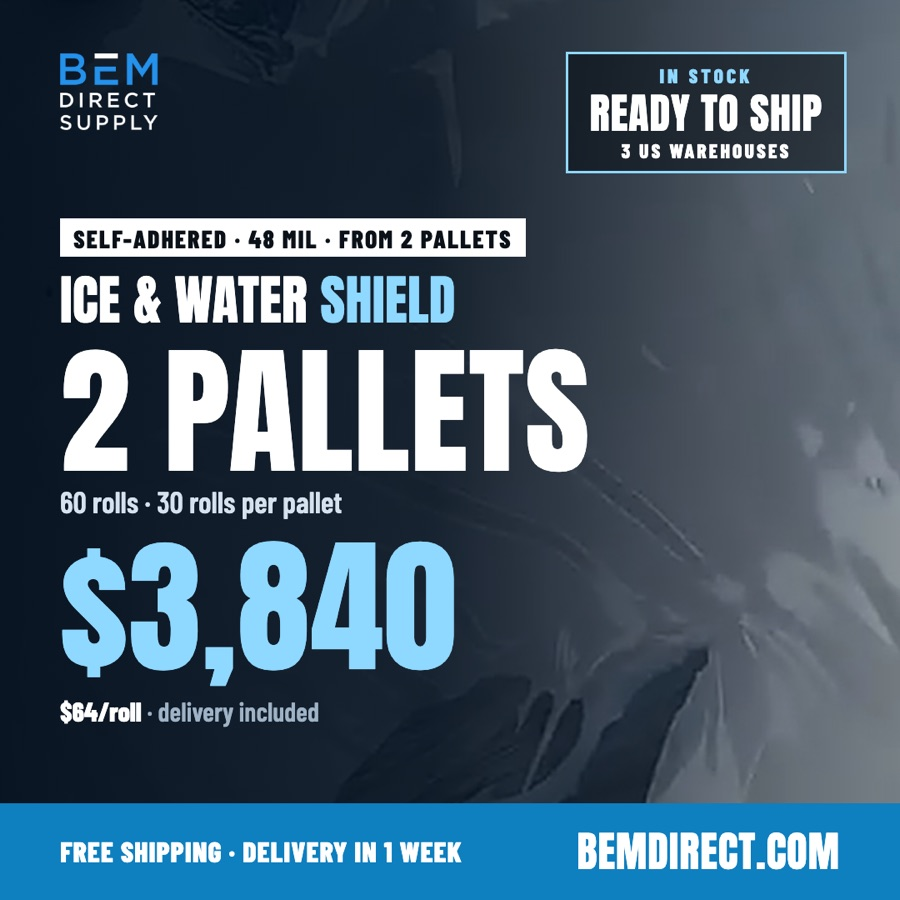
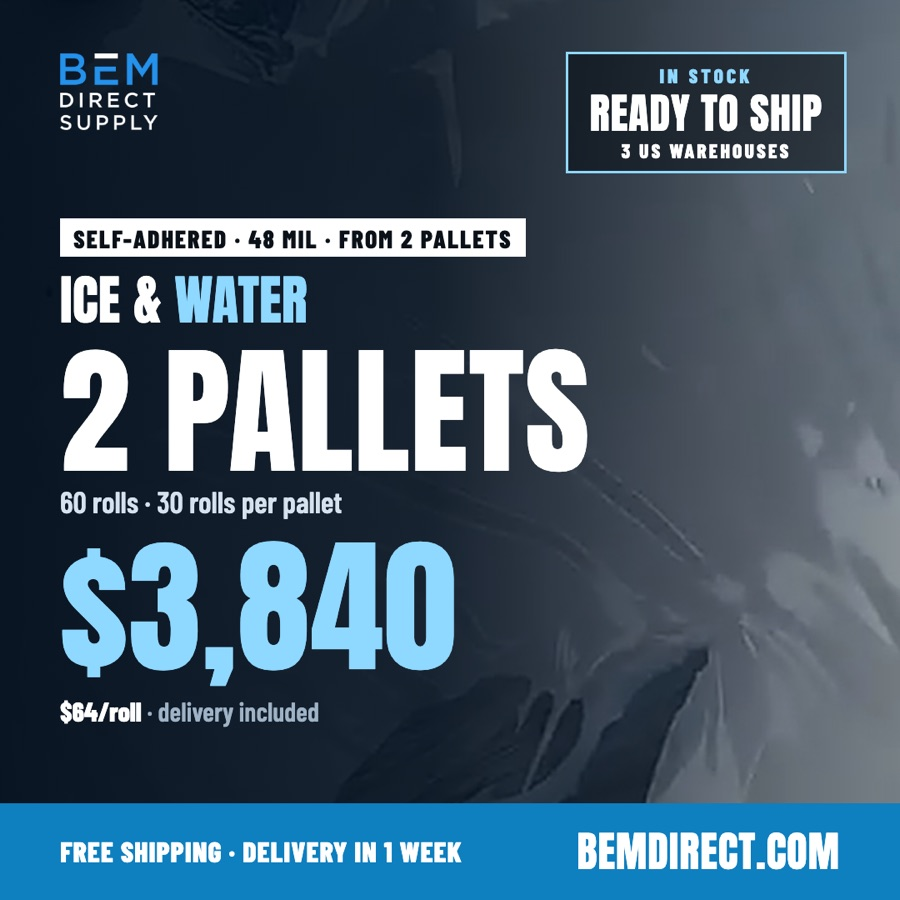
Ice & Water without 'Shield'

Changed region(s): [[0.1867, 0.28, 0.5289, 0.3733]]

diff --git a/stock/index.html b/stock/index.html
@@ -39,7 +39,7 @@ h1{font-size:30px;margin:14px 0 18px;line-height:1.15}
 <body><div class="wrap" id="app"></div>
 <script>
 // Regular-day order page (no deadline). One page per catalog: stock (StarWrap, unbranded) or custom logo (Mercy).
-const D = {"tag":"IN STOCK","title":"Order roofing underlayment","subtitle":"Free shipping from 4 US warehouses. Pick your bundle.","bundles":{"syn-1":{"name":"Synthetic Underlayment 100 GSM — 1 pallet (56 rolls)","rolls":56,"perRoll":50,"goods":2800,"delivery":"delivery in about 1 week","img":"img/syn-1.jpg","links":{"0":{"ach":"https://buy.stripe.com/4gM6oHaB8eu72b3dcbfUQ2j","card":"https://buy.stripe.com/28E8wPdNk85J3f7fkjfUQ2k"},"6":{"ach":"https://buy.stripe.com/00weVdfVs5XB4jbc87fUQ2l","card":"https://buy.stripe.com/28E00j24C1HlcPHegffUQ2m"},"7":{"ach":"https://buy.stripe.com/28E5kDbFcbhVbLD7RRfUQ2p","card":"https://buy.stripe.com/00wfZhaB85XBcPH8VVfUQ2q"},"8":{"ach":"https://buy.stripe.com/14AcN59x43PtdTL3BBfUQ2t","card":"https://buy.stripe.com/bJefZh6kS2Lp6rj0ppfUQ2u"},"6.5":{"ach":"https://buy.stripe.com/28EaEX4cK0Dh6rj3BBfUQ2n","card":"https://buy.stripe.com/5kQ7sL7oW1HlcPHegffUQ2o"},"7.5":{"ach":"https://buy.stripe.com/cNi8wPeRo1HleXP9ZZfUQ2r","card":"https://buy.stripe.com/6oU14ndNk0DhcPH8VVfUQ2s"}}},"syn-2":{"name":"Synthetic Underlayment 100 GSM — 2 pallets (112 rolls)","rolls":112,"perRoll":48,"goods":5376,"delivery":"delivery in about 1 week","img":"img/syn-2.jpg","links":{"0":{"ach":"https://buy.stripe.com/cNi3cv10y1Hl2b38VVfUQ2v","card":"https://buy.stripe.com/28EfZhaB80DhcPHb43fUQ2w"},"6":{"ach":"https://buy.stripe.com/3cI5kD38G71F16Z2xxfUQ2x","card":"https://buy.stripe.com/00wdR9fVs85J02V8VVfUQ2y"},"7":{"ach":"https://buy.stripe.com/8x2dR9cJg71F9DvfkjfUQ2B","card":"https://buy.stripe.com/aFadR99x485J4jbgonfUQ2C"},"8":{"ach":"https://buy.stripe.com/bJe3cv9x43Pt3f7b43fUQ2F","card":"https://buy.stripe.com/14A3cv24C71Fg1T4FFfUQ2G"},"6.5":{"ach":"https://buy.stripe.com/4gM28reRo5XBaHzc87fUQ2z","card":"https://buy.stripe.com/dRm7sL24Ceu78zr6NNfUQ2A"},"7.5":{"ach":"https://buy.stripe.com/dRm14n5gO85J6rj7RRfUQ2D","card":"https://buy.stripe.com/3cIaEXaB80Dh4jbfkjfUQ2E"}}},"syn-4":{"name":"Synthetic Underlayment 100 GSM — 4 pallets (224 rolls)","rolls":224,"perRoll":48,"goods":10752,"delivery":"delivery in about 1 week","img":"img/syn-4.jpg","links":{"0":{"ach":"https://buy.stripe.com/8x2bJ1dNkclZbLD3BBfUQ2H","card":"https://buy.stripe.com/dRm5kD8t04TxaHz7RRfUQ2I"},"6":{"ach":"https://buy.stripe.com/5kQ4gzaB81HlcPH3BBfUQ2J","card":"https://buy.stripe.com/fZu5kD24C2Lp6rj0ppfUQ2K"},"7":{"ach":"https://buy.stripe.com/bJe5kD38Gfyb6rj9ZZfUQ2N","card":"https://buy.stripe.com/28EcN5dNkgCfaHzc87fUQ2O"},"8":{"ach":"https://buy.stripe.com/3cIaEXcJgbhVaHz3BBfUQ2R","card":"https://buy.stripe.com/28EfZheRo4Tx6rjc87fUQ2S"},"6.5":{"ach":"https://buy.stripe.com/3cI9AT7oW3Pt8zrc87fUQ2L","card":"https://buy.stripe.com/3cIcN5eRoclZcPHgonfUQ2M"},"7.5":{"ach":"https://buy.stripe.com/eVq00jeRoeu7cPH3BBfUQ2P","card":"https://buy.stripe.com/4gM4gzaB8fybcPH1ttfUQ2Q"}}},"syn-6":{"name":"Synthetic Underlayment 100 GSM — 6 pallets (336 rolls)","rolls":336,"perRoll":48,"goods":16128,"delivery":"delivery in about 1 week","img":"img/syn-6.jpg","links":{"0":{"ach":"https://buy.stripe.com/14A9AT5gOeu7eXP9ZZfUQ2T","card":"https://buy.stripe.com/00w3cvbFc5XB6rj8VVfUQ2U"},"6":{"ach":"https://buy.stripe.com/5kQ6oHdNk5XBaHz7RRfUQ2V","card":"https://buy.stripe.com/fZu8wPeRo4Tx3f76NNfUQ2W"},"7":{"ach":"https://buy.stripe.com/4gMfZh6kS1HlbLD9ZZfUQ2Z","card":"https://buy.stripe.com/6oU28r8t00Dh8zrc87fUQ30"},"8":{"ach":"https://buy.stripe.com/4gM9ATbFcgCfeXP3BBfUQ33","card":"https://buy.stripe.com/cNi9AT8t0clZ5nf0ppfUQ34"},"6.5":{"ach":"https://buy.stripe.com/00wfZh4cKeu7aHz3BBfUQ2X","card":"https://buy.stripe.com/28E14ncJg5XB2b35JJfUQ2Y"},"7.5":{"ach":"https://buy.stripe.com/dRm7sL38Gdq316ZdcbfUQ31","card":"https://buy.stripe.com/cNi9ATbFc5XBaHzgonfUQ32"}}},"iw-2":{"name":"Ice & Water Shield 48 mil — 2 pallets (60 rolls)","rolls":60,"perRoll":64,"goods":3840,"delivery":"delivery in about 1 week","img":"img/iw-2.jpg","links":{"0":{"ach":"https://buy.stripe.com/9B6eVd7oW3Pt16Z2xxfUQ35","card":"https://buy.stripe.com/8x214n6kS1Hlg1T9ZZfUQ36"},"6":{"ach":"https://buy.stripe.com/28E9ATbFcbhVdTL5JJfUQ37","card":"https://buy.stripe.com/7sYfZheRo1Hl16Z5JJfUQ38"},"7":{"ach":"https://buy.stripe.com/eVq14ndNk99N16Zc87fUQ3b","card":"https://buy.stripe.com/00wcN57oW71Fg1T8VVfUQ3c"},"8":{"ach":"https://buy.stripe.com/00w00j9x45XBcPH0ppfUQ3f","card":"https://buy.stripe.com/3cI00jbFc1HldTL6NNfUQ3g"},"6.5":{"ach":"https://buy.stripe.com/14A00j7oWbhV7vn4FFfUQ39","card":"https://buy.stripe.com/bJefZhfVs0Dh2b34FFfUQ3a"},"7.5":{"ach":"https://buy.stripe.com/cNi4gzaB80Dh9Dv6NNfUQ3d","card":"https://buy.stripe.com/eVq8wP24CbhV7vn2xxfUQ3e"}}},"iw-4":{"name":"Ice & Water Shield 48 mil — 4 pallets (120 rolls)","rolls":120,"perRoll":64,"goods":7680,"delivery":"delivery in about 1 week","img":"img/iw-4.jpg","links":{"0":{"ach":"https://buy.stripe.com/aFafZh4cK1Hl2b35JJfUQ3h","card":"https://buy.stripe.com/7sYeVddNk99NcPH8VVfUQ3i"},"6":{"ach":"https://buy.stripe.com/5kQ7sLaB82Lpg1T6NNfUQ3j","card":"https://buy.stripe.com/fZueVdaB83Pt7vnb43fUQ3k"},"7":{"ach":"https://buy.stripe.com/8x200jgZw3PtaHz7RRfUQ3n","card":"https://buy.stripe.com/5kQcN5eRo85J8zr9ZZfUQ3o"},"8":{"ach":"https://buy.stripe.com/9B64gz9x44Txg1T1ttfUQ3r","card":"https://buy.stripe.com/cNi7sL24C1HlaHz0ppfUQ3s"},"6.5":{"ach":"https://buy.stripe.com/9B600j5gO85J02Vb43fUQ3l","card":"https://buy.stripe.com/3cIcN55gOgCfeXP9ZZfUQ3m"},"7.5":{"ach":"https://buy.stripe.com/dRm14nbFc4Tx8zrc87fUQ3p","card":"https://buy.stripe.com/fZuaEX8t099NdTLb43fUQ3q"}}},"iw-6":{"name":"Ice & Water Shield 48 mil — 6 pallets (180 rolls)","rolls":180,"perRoll":60,"goods":10800,"delivery":"delivery in about 1 week","img":"img/iw-6.jpg","links":{"0":{"ach":"https://buy.stripe.com/14AcN5dNk4Tx6rj8VVfUQ3t","card":"https://buy.stripe.com/fZu9AT24C2Lp8zr6NNfUQ3u"},"6":{"ach":"https://buy.stripe.com/9B628rfVs1Hl16Z8VVfUQ3v","card":"https://buy.stripe.com/fZu28r10ygCf3f74FFfUQ3w"},"7":{"ach":"https://buy.stripe.com/14AfZhgZwfybaHzgonfUQ3z","card":"https://buy.stripe.com/3cI4gzaB82Lp16Zb43fUQ3A"},"8":{"ach":"https://buy.stripe.com/7sY28r10y1HlbLD5JJfUQ3D","card":"https://buy.stripe.com/fZueVd7oWeu7cPHc87fUQ3E"},"6.5":{"ach":"https://buy.stripe.com/dRm9ATeRo5XB9Dv3BBfUQ3x","card":"https://buy.stripe.com/14A5kDfVs2LpeXPdcbfUQ3y"},"7.5":{"ach":"https://buy.stripe.com/9B600j6kS2Lpg1Tb43fUQ3B","card":"https://buy.stripe.com/8x2fZhdNk4Tx8zrb43fUQ3C"}}}},"fl":{"prefix":{"320":7,"321":7,"322":7.5,"323":7.5,"324":7.5,"325":7,"326":7.5,"327":7,"328":6.5,"329":7,"330":7,"331":7,"333":7,"334":7,"335":7.5,"336":7.5,"337":7,"338":7,"339":6.5,"341":6,"342":7,"344":7.5,"346":7,"347":7,"349":7},"zips":{"32003":7.5,"32008":7,"32009":7,"32011":7,"32013":7,"32024":7.5,"32025":7.5,"32026":7,"32033":6.5,"32034":7,"32038":7.5,"32040":7,"32043":7.5,"32044":7,"32046":7,"32052":8,"32053":8,"32054":7,"32055":7.5,"32058":7,"32059":7.5,"32060":7,"32061":7.5,"32062":7,"32063":7,"32064":7,"32065":7.5,"32066":7,"32068":7.5,"32071":7,"32072":7,"32073":7.5,"32079":7.5,"32080":6.5,"32081":6.5,"32082":6.5,"32083":7,"32084":6.5,"32086":6.5,"32087":7,"32091":7,"32092":6.5,"32094":7,"32095":6.5,"32096":7.5,"32097":7,"32102":7,"32110":7,"32112":7,"32113":7.5,"32114":6.5,"32117":6.5,"32118":6.5,"32119":6.5,"32124":6.5,"32127":6.5,"32128":6.5,"32129":6.5,"32130":6.5,"32131":7,"32132":6.5,"32133":7.5,"32134":7.5,"32136":7,"32137":7,"32139":7,"32140":7,"32141":6.5,"32145":6.5,"32147":7,"32148":7,"32157":7,"32159":7,"32162":7,"32163":7,"32164":7,"32168":6.5,"32169":6.5,"32174":6.5,"32176":6.5,"32177":7,"32179":7.5,"32180":6.5,"32181":7,"32182":7.5,"32187":7,"32189":7,"32190":6.5,"32192":7.5,"32193":7,"32195":7.5,"32202":7.5,"32203":7.5,"32204":7.5,"32205":7.5,"32206":7.5,"32207":7.5,"32208":7.5,"32209":7.5,"32210":7.5,"32211":7.5,"32212":7.5,"32214":7.5,"32216":7.5,"32217":7.5,"32218":7.5,"32219":7.5,"32220":7.5,"32221":7.5,"32222":7.5,"32223":7.5,"32224":7.5,"32225":7.5,"32226":7.5,"32227":7.5,"32228":7.5,"32233":7.5,"32234":7.5,"32244":7.5,"32246":7.5,"32250":7.5,"32254":7.5,"32256":7.5,"32257":7.5,"32258":7.5,"32259":6.5,"32266":7.5,"32277":7.5,"32301":7.5,"32303":7.5,"32304":7.5,"32305":7.5,"32306":7.5,"32307":7.5,"32308":7.5,"32309":7.5,"32310":7.5,"32311":7.5,"32312":7.5,"32313":7.5,"32317":7.5,"32320":7.5,"32321":7.5,"32322":7.5,"32323":7.5,"32324":7.5,"32327":7.5,"32328":7.5,"32330":7.5,"32331":7.5,"32332":7.5,"32333":7.5,"32334":7.5,"32336":7,"32337":7,"32340":7.5,"32343":7.5,"32344":7,"32346":7.5,"32347":7,"32348":7,"32350":7.5,"32351":7.5,"32352":7.5,"32355":7.5,"32356":7,"32358":7.5,"32359":7,"32360":7.5,"32361":7,"32399":7.5,"32401":7,"32403":7,"32404":7,"32405":7,"32407":7,"32408":7,"32409":7,"32410":7,"32413":7,"32420":7.5,"32421":7.5,"32423":7.5,"32424":7.5,"32425":7.5,"32426":7.5,"32427":7.5,"32428":7.5,"32430":7.5,"32431":7.5,"32432":7.5,"32433":7,"32435":7,"32437":7.5,"32438":7,"32439":7,"32440":7.5,"32442":7.5,"32443":7.5,"32444":7,"32445":7.5,"32446":7.5,"32448":7.5,"32449":7.5,"32455":7,"32456":7,"32459":7,"32460":7.5,"32461":7,"32462":7.5,"32463":7.5,"32464":7.5,"32465":7,"32466":7,"32501":7.5,"32502":7.5,"32503":7.5,"32504":7.5,"32505":7.5,"32506":7.5,"32507":7.5,"32508":7.5,"32509":7.5,"32511":7.5,"32512":7.5,"32514":7.5,"32526":7.5,"32530":7,"32531":7,"32533":7.5,"32534":7.5,"32535":7.5,"32536":7,"32539":7,"32541":7,"32542":7,"32544":7,"32547":7,"32548":7,"32550":7,"32561":7.5,"32563":7,"32564":7,"32565":7,"32566":7,"32567":7,"32568":7.5,"32569":7,"32570":7,"32571":7,"32577":7.5,"32578":7,"32579":7,"32580":7,"32583":7,"32601":7.5,"32603":7.5,"32605":7.5,"32606":7.5,"32607":7.5,"32608":7.5,"32609":7.5,"32610":7.5,"32612":7.5,"32615":7.5,"32616":7.5,"32617":7.5,"32618":7.5,"32619":7,"32621":7,"32622":7,"32625":7,"32626":7,"32628":7,"32631":7.5,"32634":7.5,"32639":7,"32640":7.5,"32641":7.5,"32643":7.5,"32648":7,"32653":7.5,"32656":7.5,"32658":7.5,"32664":7.5,"32666":7,"32667":7.5,"32668":7,"32669":7.5,"32680":7,"32681":7.5,"32683":7,"32686":7.5,"32692":7,"32693":7,"32694":7.5,"32696":7,"32697":7,"32701":7,"32702":7,"32703":6.5,"32707":7,"32708":7,"32709":6.5,"32712":6.5,"32713":6.5,"32714":7,"32720":6.5,"32723":6.5,"32724":6.5,"32725":6.5,"32726":7,"32730":7,"32732":7,"32735":7,"32736":7,"32738":6.5,"32744":6.5,"32746":7,"32750":7,"32751":6.5,"32754":7,"32757":7,"32759":6.5,"32763":6.5,"32764":6.5,"32765":7,"32766":7,"32767":7,"32768":6.5,"32771":7,"32773":7,"32775":7,"32776":7,"32778":7,"32779":7,"32780":7,"32784":7.5,"32789":6.5,"32792":7,"32796":7,"32798":6.5,"32801":6.5,"32803":6.5,"32804":6.5,"32805":6.5,"32806":6.5,"32807":6.5,"32808":6.5,"32809":6.5,"32810":6.5,"32811":6.5,"32812":6.5,"32814":6.5,"32816":6.5,"32817":6.5,"32818":6.5,"32819":6.5,"32820":6.5,"32821":6.5,"32822":6.5,"32824":6.5,"32825":6.5,"32826":6.5,"32827":6.5,"32828":6.5,"32829":6.5,"32830":6.5,"32831":6.5,"32832":6.5,"32833":6.5,"32835":6.5,"32836":6.5,"32837":6.5,"32839":6.5,"32899":7,"32901":7,"32903":7,"32904":7,"32905":7,"32907":7,"32908":7,"32909":7,"32920":7,"32922":7,"32925":7,"32926":7,"32927":7,"32931":7,"32934":7,"32935":7,"32937":7,"32940":7,"32948":7,"32949":7,"32950":7,"32951":7,"32952":7,"32953":7,"32955":7,"32958":7,"32959":7,"32960":7,"32962":7,"32963":7,"32966":7,"32967":7,"32968":7,"32970":7,"32976":7,"33001":7.5,"33004":7,"33009":7,"33010":7,"33012":7,"33013":7,"33014":7,"33015":7,"33016":7,"33018":7,"33019":7,"33020":7,"33021":7,"33022":7,"33023":7,"33024":7,"33025":7,"33026":7,"33027":7,"33028":7,"33029":7,"33030":7,"33031":7,"33032":7,"33033":7,"33034":7,"33035":7,"33036":7.5,"33037":7.5,"33039":7,"33040":7.5,"33042":7.5,"33043":7.5,"33050":7.5,"33051":7.5,"33054":7,"33055":7,"33056":7,"33060":7,"33062":7,"33063":7,"33064":7,"33065":7,"33066":7,"33067":7,"33068":7,"33069":7,"33070":7.5,"33071":7,"33073":7,"33076":7,"33101":7,"33109":7,"33122":7,"33125":7,"33126":7,"33127":7,"33128":7,"33129":7,"33130":7,"33131":7,"33132":7,"33133":7,"33134":7,"33135":7,"33136":7,"33137":7,"33138":7,"33139":7,"33140":7,"33141":7,"33142":7,"33143":7,"33144":7,"33145":7,"33146":7,"33147":7,"33149":7,"33150":7,"33154":7,"33155":7,"33156":7,"33157":7,"33158":7,"33160":7,"33161":7,"33162":7,"33165":7,"33166":7,"33167":7,"33168":7,"33169":7,"33170":7,"33172":7,"33173":7,"33174":7,"33175":7,"33176":7,"33177":7,"33178":7,"33179":7,"33180":7,"33181":7,"33182":7,"33183":7,"33184":7,"33185":7,"33186":7,"33187":7,"33189":7,"33190":7,"33193":7,"33194":7,"33196":7,"33301":7,"33304":7,"33305":7,"33306":7,"33308":7,"33309":7,"33311":7,"33312":7,"33313":7,"33314":7,"33315":7,"33316":7,"33317":7,"33319":7,"33321":7,"33322":7,"33323":7,"33324":7,"33325":7,"33326":7,"33327":7,"33328":7,"33330":7,"33331":7,"33332":7,"33334":7,"33351":7,"33388":7,"33401":7,"33403":7,"33404":7,"33405":7,"33406":7,"33407":7,"33408":7,"33409":7,"33410":7,"33411":7,"33412":7,"33413":7,"33414":7,"33415":7,"33417":7,"33418":7,"33426":7,"33428":7,"33430":7,"33431":7,"33432":7,"33433":7,"33434":7,"33435":7,"33436":7,"33437":7,"33438":7,"33440":7.5,"33441":7,"33442":7,"33444":7,"33445":7,"33446":7,"33449":7,"33455":7,"33458":7,"33460":7,"33461":7,"33462":7,"33463":7,"33467":7,"33469":7,"33470":7,"33471":7,"33472":7,"33473":7,"33476":7,"33477":7,"33478":7,"33480":7,"33483":7,"33484":7,"33486":7,"33487":7,"33493":7,"33496":7,"33498":7,"33503":7.5,"33510":7.5,"33511":7.5,"33513":7,"33514":7,"33521":7,"33523":7,"33525":7,"33527":7.5,"33530":7.5,"33534":7.5,"33538":7,"33540":7,"33541":7,"33542":7,"33543":7,"33544":7,"33545":7,"33547":7.5,"33548":7.5,"33549":7.5,"33550":7.5,"33556":7.5,"33558":7.5,"33559":7.5,"33563":7.5,"33565":7.5,"33566":7.5,"33567":7.5,"33569":7.5,"33570":7.5,"33572":7.5,"33573":7.5,"33574":7,"33576":7,"33578":7.5,"33579":7.5,"33584":7.5,"33585":7,"33592":7.5,"33594":7.5,"33596":7.5,"33597":7,"33598":7.5,"33602":7.5,"33603":7.5,"33604":7.5,"33605":7.5,"33606":7.5,"33607":7.5,"33609":7.5,"33610":7.5,"33611":7.5,"33612":7.5,"33613":7.5,"33614":7.5,"33615":7.5,"33616":7.5,"33617":7.5,"33618":7.5,"33619":7.5,"33620":7.5,"33621":7.5,"33624":7.5,"33625":7.5,"33626":7.5,"33629":7.5,"33634":7.5,"33635":7.5,"33637":7.5,"33647":7.5,"33701":7,"33702":7,"33703":7,"33704":7,"33705":7,"33706":7,"33707":7,"33708":7,"33709":7,"33710":7,"33711":7,"33712":7,"33713":7,"33714":7,"33715":7,"33716":7,"33744":7,"33755":7,"33756":7,"33759":7,"33760":7,"33761":7,"33762":7,"33763":7,"33764":7,"33765":7,"33767":7,"33770":7,"33771":7,"33772":7,"33773":7,"33774":7,"33776":7,"33777":7,"33778":7,"33781":7,"33782":7,"33785":7,"33786":7,"33801":7,"33803":7,"33805":7,"33809":7,"33810":7,"33811":7,"33812":7,"33813":7,"33815":7,"33823":7,"33825":7.5,"33827":7,"33830":7,"33834":7,"33835":7,"33837":7,"33838":7,"33839":7,"33840":7,"33841":7,"33843":7,"33844":7,"33847":7,"33848":7.5,"33849":7,"33850":7,"33851":7,"33852":7.5,"33853":7,"33854":7,"33855":7,"33856":7,"33857":7.5,"33858":7,"33859":7,"33860":7,"33865":7,"33867":7,"33868":7,"33870":7.5,"33872":7.5,"33873":7,"33875":7.5,"33876":7.5,"33877":7,"33880":7,"33881":7,"33884":7,"33890":7,"33896":7.5,"33897":7,"33898":7,"33901":6.5,"33903":6.5,"33904":6.5,"33905":6.5,"33907":6.5,"33908":6.5,"33909":6.5,"33912":6.5,"33913":6.5,"33914":6.5,"33916":6.5,"33917":6.5,"33919":6.5,"33920":6.5,"33921":6.5,"33922":6.5,"33924":6.5,"33928":6.5,"33930":7.5,"33931":6.5,"33935":7.5,"33936":7.5,"33944":7,"33946":7,"33947":7,"33948":7,"33950":7,"33952":7,"33953":7,"33954":7,"33955":7,"33956":6.5,"33957":6.5,"33960":7.5,"33965":6.5,"33966":6.5,"33967":6.5,"33971":6.5,"33972":6.5,"33973":6.5,"33974":6.5,"33976":6.5,"33980":7,"33981":7,"33982":7,"33983":7,"33990":6.5,"33991":6.5,"33993":6.5,"34101":6,"34102":6,"34103":6,"34104":6,"34105":6,"34108":6,"34109":6,"34110":6,"34112":6,"34113":6,"34114":6,"34116":6,"34117":6,"34119":6,"34120":6,"34134":6.5,"34135":6.5,"34137":6,"34138":6,"34139":6,"34140":6,"34141":6,"34142":6,"34145":6,"34201":7,"34202":7,"34203":7,"34205":7,"34207":7,"34208":7,"34209":7,"34210":7,"34211":7,"34212":7,"34215":7,"34216":7,"34217":7,"34219":7,"34221":7,"34222":7,"34223":7,"34224":7,"34228":7,"34229":7,"34231":7,"34232":7,"34233":7,"34234":7,"34235":7,"34236":7,"34237":7,"34238":7,"34239":7,"34240":7,"34241":7,"34242":7,"34243":7,"34250":7,"34251":7,"34266":7.5,"34267":7.5,"34268":7.5,"34269":7.5,"34275":7,"34285":7,"34286":7,"34287":7,"34288":7,"34289":7,"34291":7,"34292":7,"34293":7,"34420":7.5,"34428":6,"34429":6,"34431":7.5,"34432":7.5,"34433":6,"34434":6,"34436":6,"34442":6,"34445":6,"34446":6,"34448":6,"34449":7,"34450":6,"34452":6,"34453":6,"34461":6,"34465":6,"34470":7.5,"34471":7.5,"34472":7.5,"34473":7.5,"34474":7.5,"34475":7.5,"34476":7.5,"34479":7.5,"34480":7.5,"34481":7.5,"34482":7.5,"34484":7,"34487":6,"34488":7.5,"34491":7.5,"34498":7,"34601":6.5,"34602":6.5,"34604":6.5,"34606":6.5,"34607":6.5,"34608":6.5,"34609":6.5,"34610":7,"34613":6.5,"34614":6.5,"34637":7,"34638":7,"34639":7,"34652":7,"34653":7,"34654":7,"34655":7,"34661":6.5,"34667":7,"34668":7,"34669":7,"34677":7,"34679":7,"34681":7,"34683":7,"34684":7,"34685":7,"34688":7,"34689":7,"34690":7,"34691":7,"34695":7,"34698":7,"34705":7,"34711":7,"34714":7,"34715":7,"34729":7,"34731":7,"34734":6.5,"34736":7,"34737":7,"34739":7.5,"34741":7.5,"34743":7.5,"34744":7.5,"34746":7.5,"34747":7.5,"34748":7,"34753":7,"34756":7,"34758":7.5,"34759":7,"34760":6.5,"34761":6.5,"34762":7,"34769":7.5,"34771":7.5,"34772":7.5,"34773":7.5,"34785":7,"34786":6.5,"34787":6.5,"34788":7,"34797":7,"34945":7,"34946":7,"34947":7,"34949":7,"34950":7,"34951":7,"34952":7,"34953":7,"34956":7,"34957":7,"34972":7,"34974":7,"34981":7,"34982":7,"34983":7,"34984":7,"34986":7,"34987":7,"34990":7,"34994":7,"34996":7,"34997":7}},"cardFee":3};
+const D = {"tag":"IN STOCK","title":"Order roofing underlayment","subtitle":"Free shipping from 4 US warehouses. Pick your bundle.","bundles":{"syn-1":{"name":"Synthetic Underlayment 100 GSM — 1 pallet (56 rolls)","rolls":56,"perRoll":50,"goods":2800,"delivery":"delivery in about 1 week","img":"img/syn-1.jpg","links":{"0":{"ach":"https://buy.stripe.com/4gM6oHaB8eu72b3dcbfUQ2j","card":"https://buy.stripe.com/28E8wPdNk85J3f7fkjfUQ2k"},"6":{"ach":"https://buy.stripe.com/00weVdfVs5XB4jbc87fUQ2l","card":"https://buy.stripe.com/28E00j24C1HlcPHegffUQ2m"},"7":{"ach":"https://buy.stripe.com/28E5kDbFcbhVbLD7RRfUQ2p","card":"https://buy.stripe.com/00wfZhaB85XBcPH8VVfUQ2q"},"8":{"ach":"https://buy.stripe.com/14AcN59x43PtdTL3BBfUQ2t","card":"https://buy.stripe.com/bJefZh6kS2Lp6rj0ppfUQ2u"},"6.5":{"ach":"https://buy.stripe.com/28EaEX4cK0Dh6rj3BBfUQ2n","card":"https://buy.stripe.com/5kQ7sL7oW1HlcPHegffUQ2o"},"7.5":{"ach":"https://buy.stripe.com/cNi8wPeRo1HleXP9ZZfUQ2r","card":"https://buy.stripe.com/6oU14ndNk0DhcPH8VVfUQ2s"}}},"syn-2":{"name":"Synthetic Underlayment 100 GSM — 2 pallets (112 rolls)","rolls":112,"perRoll":48,"goods":5376,"delivery":"delivery in about 1 week","img":"img/syn-2.jpg","links":{"0":{"ach":"https://buy.stripe.com/cNi3cv10y1Hl2b38VVfUQ2v","card":"https://buy.stripe.com/28EfZhaB80DhcPHb43fUQ2w"},"6":{"ach":"https://buy.stripe.com/3cI5kD38G71F16Z2xxfUQ2x","card":"https://buy.stripe.com/00wdR9fVs85J02V8VVfUQ2y"},"7":{"ach":"https://buy.stripe.com/8x2dR9cJg71F9DvfkjfUQ2B","card":"https://buy.stripe.com/aFadR99x485J4jbgonfUQ2C"},"8":{"ach":"https://buy.stripe.com/bJe3cv9x43Pt3f7b43fUQ2F","card":"https://buy.stripe.com/14A3cv24C71Fg1T4FFfUQ2G"},"6.5":{"ach":"https://buy.stripe.com/4gM28reRo5XBaHzc87fUQ2z","card":"https://buy.stripe.com/dRm7sL24Ceu78zr6NNfUQ2A"},"7.5":{"ach":"https://buy.stripe.com/dRm14n5gO85J6rj7RRfUQ2D","card":"https://buy.stripe.com/3cIaEXaB80Dh4jbfkjfUQ2E"}}},"syn-4":{"name":"Synthetic Underlayment 100 GSM — 4 pallets (224 rolls)","rolls":224,"perRoll":48,"goods":10752,"delivery":"delivery in about 1 week","img":"img/syn-4.jpg","links":{"0":{"ach":"https://buy.stripe.com/8x2bJ1dNkclZbLD3BBfUQ2H","card":"https://buy.stripe.com/dRm5kD8t04TxaHz7RRfUQ2I"},"6":{"ach":"https://buy.stripe.com/5kQ4gzaB81HlcPH3BBfUQ2J","card":"https://buy.stripe.com/fZu5kD24C2Lp6rj0ppfUQ2K"},"7":{"ach":"https://buy.stripe.com/bJe5kD38Gfyb6rj9ZZfUQ2N","card":"https://buy.stripe.com/28EcN5dNkgCfaHzc87fUQ2O"},"8":{"ach":"https://buy.stripe.com/3cIaEXcJgbhVaHz3BBfUQ2R","card":"https://buy.stripe.com/28EfZheRo4Tx6rjc87fUQ2S"},"6.5":{"ach":"https://buy.stripe.com/3cI9AT7oW3Pt8zrc87fUQ2L","card":"https://buy.stripe.com/3cIcN5eRoclZcPHgonfUQ2M"},"7.5":{"ach":"https://buy.stripe.com/eVq00jeRoeu7cPH3BBfUQ2P","card":"https://buy.stripe.com/4gM4gzaB8fybcPH1ttfUQ2Q"}}},"syn-6":{"name":"Synthetic Underlayment 100 GSM — 6 pallets (336 rolls)","rolls":336,"perRoll":48,"goods":16128,"delivery":"delivery in about 1 week","img":"img/syn-6.jpg","links":{"0":{"ach":"https://buy.stripe.com/14A9AT5gOeu7eXP9ZZfUQ2T","card":"https://buy.stripe.com/00w3cvbFc5XB6rj8VVfUQ2U"},"6":{"ach":"https://buy.stripe.com/5kQ6oHdNk5XBaHz7RRfUQ2V","card":"https://buy.stripe.com/fZu8wPeRo4Tx3f76NNfUQ2W"},"7":{"ach":"https://buy.stripe.com/4gMfZh6kS1HlbLD9ZZfUQ2Z","card":"https://buy.stripe.com/6oU28r8t00Dh8zrc87fUQ30"},"8":{"ach":"https://buy.stripe.com/4gM9ATbFcgCfeXP3BBfUQ33","card":"https://buy.stripe.com/cNi9AT8t0clZ5nf0ppfUQ34"},"6.5":{"ach":"https://buy.stripe.com/00wfZh4cKeu7aHz3BBfUQ2X","card":"https://buy.stripe.com/28E14ncJg5XB2b35JJfUQ2Y"},"7.5":{"ach":"https://buy.stripe.com/dRm7sL38Gdq316ZdcbfUQ31","card":"https://buy.stripe.com/cNi9ATbFc5XBaHzgonfUQ32"}}},"iw-2":{"name":"Ice & Water 48 mil — 2 pallets (60 rolls)","rolls":60,"perRoll":64,"goods":3840,"delivery":"delivery in about 1 week","img":"img/iw-2.jpg","links":{"0":{"ach":"https://buy.stripe.com/9B6eVd7oW3Pt16Z2xxfUQ35","card":"https://buy.stripe.com/8x214n6kS1Hlg1T9ZZfUQ36"},"6":{"ach":"https://buy.stripe.com/28E9ATbFcbhVdTL5JJfUQ37","card":"https://buy.stripe.com/7sYfZheRo1Hl16Z5JJfUQ38"},"7":{"ach":"https://buy.stripe.com/eVq14ndNk99N16Zc87fUQ3b","card":"https://buy.stripe.com/00wcN57oW71Fg1T8VVfUQ3c"},"8":{"ach":"https://buy.stripe.com/00w00j9x45XBcPH0ppfUQ3f","card":"https://buy.stripe.com/3cI00jbFc1HldTL6NNfUQ3g"},"6.5":{"ach":"https://buy.stripe.com/14A00j7oWbhV7vn4FFfUQ39","card":"https://buy.stripe.com/bJefZhfVs0Dh2b34FFfUQ3a"},"7.5":{"ach":"https://buy.stripe.com/cNi4gzaB80Dh9Dv6NNfUQ3d","card":"https://buy.stripe.com/eVq8wP24CbhV7vn2xxfUQ3e"}}},"iw-4":{"name":"Ice & Water 48 mil — 4 pallets (120 rolls)","rolls":120,"perRoll":64,"goods":7680,"delivery":"delivery in about 1 week","img":"img/iw-4.jpg","links":{"0":{"ach":"https://buy.stripe.com/aFafZh4cK1Hl2b35JJfUQ3h","card":"https://buy.stripe.com/7sYeVddNk99NcPH8VVfUQ3i"},"6":{"ach":"https://buy.stripe.com/5kQ7sLaB82Lpg1T6NNfUQ3j","card":"https://buy.stripe.com/fZueVdaB83Pt7vnb43fUQ3k"},"7":{"ach":"https://buy.stripe.com/8x200jgZw3PtaHz7RRfUQ3n","card":"https://buy.stripe.com/5kQcN5eRo85J8zr9ZZfUQ3o"},"8":{"ach":"https://buy.stripe.com/9B64gz9x44Txg1T1ttfUQ3r","card":"https://buy.stripe.com/cNi7sL24C1HlaHz0ppfUQ3s"},"6.5":{"ach":"https://buy.stripe.com/9B600j5gO85J02Vb43fUQ3l","card":"https://buy.stripe.com/3cIcN55gOgCfeXP9ZZfUQ3m"},"7.5":{"ach":"https://buy.stripe.com/dRm14nbFc4Tx8zrc87fUQ3p","card":"https://buy.stripe.com/fZuaEX8t099NdTLb43fUQ3q"}}},"iw-6":{"name":"Ice & Water 48 mil — 6 pallets (180 rolls)","rolls":180,"perRoll":60,"goods":10800,"delivery":"delivery in about 1 week","img":"img/iw-6.jpg","links":{"0":{"ach":"https://buy.stripe.com/14AcN5dNk4Tx6rj8VVfUQ3t","card":"https://buy.stripe.com/fZu9AT24C2Lp8zr6NNfUQ3u"},"6":{"ach":"https://buy.stripe.com/9B628rfVs1Hl16Z8VVfUQ3v","card":"https://buy.stripe.com/fZu28r10ygCf3f74FFfUQ3w"},"7":{"ach":"https://buy.stripe.com/14AfZhgZwfybaHzgonfUQ3z","card":"https://buy.stripe.com/3cI4gzaB82Lp16Zb43fUQ3A"},"8":{"ach":"https://buy.stripe.com/7sY28r10y1HlbLD5JJfUQ3D","card":"https://buy.stripe.com/fZueVd7oWeu7cPHc87fUQ3E"},"6.5":{"ach":"https://buy.stripe.com/dRm9ATeRo5XB9Dv3BBfUQ3x","card":"https://buy.stripe.com/14A5kDfVs2LpeXPdcbfUQ3y"},"7.5":{"ach":"https://buy.stripe.com/9B600j6kS2Lpg1Tb43fUQ3B","card":"https://buy.stripe.com/8x2fZhdNk4Tx8zrb43fUQ3C"}}}},"fl":{"prefix":{"320":7,"321":7,"322":7.5,"323":7.5,"324":7.5,"325":7,"326":7.5,"327":7,"328":6.5,"329":7,"330":7,"331":7,"333":7,"334":7,"335":7.5,"336":7.5,"337":7,"338":7,"339":6.5,"341":6,"342":7,"344":7.5,"346":7,"347":7,"349":7},"zips":{"32003":7.5,"32008":7,"32009":7,"32011":7,"32013":7,"32024":7.5,"32025":7.5,"32026":7,"32033":6.5,"32034":7,"32038":7.5,"32040":7,"32043":7.5,"32044":7,"32046":7,"32052":8,"32053":8,"32054":7,"32055":7.5,"32058":7,"32059":7.5,"32060":7,"32061":7.5,"32062":7,"32063":7,"32064":7,"32065":7.5,"32066":7,"32068":7.5,"32071":7,"32072":7,"32073":7.5,"32079":7.5,"32080":6.5,"32081":6.5,"32082":6.5,"32083":7,"32084":6.5,"32086":6.5,"32087":7,"32091":7,"32092":6.5,"32094":7,"32095":6.5,"32096":7.5,"32097":7,"32102":7,"32110":7,"32112":7,"32113":7.5,"32114":6.5,"32117":6.5,"32118":6.5,"32119":6.5,"32124":6.5,"32127":6.5,"32128":6.5,"32129":6.5,"32130":6.5,"32131":7,"32132":6.5,"32133":7.5,"32134":7.5,"32136":7,"32137":7,"32139":7,"32140":7,"32141":6.5,"32145":6.5,"32147":7,"32148":7,"32157":7,"32159":7,"32162":7,"32163":7,"32164":7,"32168":6.5,"32169":6.5,"32174":6.5,"32176":6.5,"32177":7,"32179":7.5,"32180":6.5,"32181":7,"32182":7.5,"32187":7,"32189":7,"32190":6.5,"32192":7.5,"32193":7,"32195":7.5,"32202":7.5,"32203":7.5,"32204":7.5,"32205":7.5,"32206":7.5,"32207":7.5,"32208":7.5,"32209":7.5,"32210":7.5,"32211":7.5,"32212":7.5,"32214":7.5,"32216":7.5,"32217":7.5,"32218":7.5,"32219":7.5,"32220":7.5,"32221":7.5,"32222":7.5,"32223":7.5,"32224":7.5,"32225":7.5,"32226":7.5,"32227":7.5,"32228":7.5,"32233":7.5,"32234":7.5,"32244":7.5,"32246":7.5,"32250":7.5,"32254":7.5,"32256":7.5,"32257":7.5,"32258":7.5,"32259":6.5,"32266":7.5,"32277":7.5,"32301":7.5,"32303":7.5,"32304":7.5,"32305":7.5,"32306":7.5,"32307":7.5,"32308":7.5,"32309":7.5,"32310":7.5,"32311":7.5,"32312":7.5,"32313":7.5,"32317":7.5,"32320":7.5,"32321":7.5,"32322":7.5,"32323":7.5,"32324":7.5,"32327":7.5,"32328":7.5,"32330":7.5,"32331":7.5,"32332":7.5,"32333":7.5,"32334":7.5,"32336":7,"32337":7,"32340":7.5,"32343":7.5,"32344":7,"32346":7.5,"32347":7,"32348":7,"32350":7.5,"32351":7.5,"32352":7.5,"32355":7.5,"32356":7,"32358":7.5,"32359":7,"32360":7.5,"32361":7,"32399":7.5,"32401":7,"32403":7,"32404":7,"32405":7,"32407":7,"32408":7,"32409":7,"32410":7,"32413":7,"32420":7.5,"32421":7.5,"32423":7.5,"32424":7.5,"32425":7.5,"32426":7.5,"32427":7.5,"32428":7.5,"32430":7.5,"32431":7.5,"32432":7.5,"32433":7,"32435":7,"32437":7.5,"32438":7,"32439":7,"32440":7.5,"32442":7.5,"32443":7.5,"32444":7,"32445":7.5,"32446":7.5,"32448":7.5,"32449":7.5,"32455":7,"32456":7,"32459":7,"32460":7.5,"32461":7,"32462":7.5,"32463":7.5,"32464":7.5,"32465":7,"32466":7,"32501":7.5,"32502":7.5,"32503":7.5,"32504":7.5,"32505":7.5,"32506":7.5,"32507":7.5,"32508":7.5,"32509":7.5,"32511":7.5,"32512":7.5,"32514":7.5,"32526":7.5,"32530":7,"32531":7,"32533":7.5,"32534":7.5,"32535":7.5,"32536":7,"32539":7,"32541":7,"32542":7,"32544":7,"32547":7,"32548":7,"32550":7,"32561":7.5,"32563":7,"32564":7,"32565":7,"32566":7,"32567":7,"32568":7.5,"32569":7,"32570":7,"32571":7,"32577":7.5,"32578":7,"32579":7,"32580":7,"32583":7,"32601":7.5,"32603":7.5,"32605":7.5,"32606":7.5,"32607":7.5,"32608":7.5,"32609":7.5,"32610":7.5,"32612":7.5,"32615":7.5,"32616":7.5,"32617":7.5,"32618":7.5,"32619":7,"32621":7,"32622":7,"32625":7,"32626":7,"32628":7,"32631":7.5,"32634":7.5,"32639":7,"32640":7.5,"32641":7.5,"32643":7.5,"32648":7,"32653":7.5,"32656":7.5,"32658":7.5,"32664":7.5,"32666":7,"32667":7.5,"32668":7,"32669":7.5,"32680":7,"32681":7.5,"32683":7,"32686":7.5,"32692":7,"32693":7,"32694":7.5,"32696":7,"32697":7,"32701":7,"32702":7,"32703":6.5,"32707":7,"32708":7,"32709":6.5,"32712":6.5,"32713":6.5,"32714":7,"32720":6.5,"32723":6.5,"32724":6.5,"32725":6.5,"32726":7,"32730":7,"32732":7,"32735":7,"32736":7,"32738":6.5,"32744":6.5,"32746":7,"32750":7,"32751":6.5,"32754":7,"32757":7,"32759":6.5,"32763":6.5,"32764":6.5,"32765":7,"32766":7,"32767":7,"32768":6.5,"32771":7,"32773":7,"32775":7,"32776":7,"32778":7,"32779":7,"32780":7,"32784":7.5,"32789":6.5,"32792":7,"32796":7,"32798":6.5,"32801":6.5,"32803":6.5,"32804":6.5,"32805":6.5,"32806":6.5,"32807":6.5,"32808":6.5,"32809":6.5,"32810":6.5,"32811":6.5,"32812":6.5,"32814":6.5,"32816":6.5,"32817":6.5,"32818":6.5,"32819":6.5,"32820":6.5,"32821":6.5,"32822":6.5,"32824":6.5,"32825":6.5,"32826":6.5,"32827":6.5,"32828":6.5,"32829":6.5,"32830":6.5,"32831":6.5,"32832":6.5,"32833":6.5,"32835":6.5,"32836":6.5,"32837":6.5,"32839":6.5,"32899":7,"32901":7,"32903":7,"32904":7,"32905":7,"32907":7,"32908":7,"32909":7,"32920":7,"32922":7,"32925":7,"32926":7,"32927":7,"32931":7,"32934":7,"32935":7,"32937":7,"32940":7,"32948":7,"32949":7,"32950":7,"32951":7,"32952":7,"32953":7,"32955":7,"32958":7,"32959":7,"32960":7,"32962":7,"32963":7,"32966":7,"32967":7,"32968":7,"32970":7,"32976":7,"33001":7.5,"33004":7,"33009":7,"33010":7,"33012":7,"33013":7,"33014":7,"33015":7,"33016":7,"33018":7,"33019":7,"33020":7,"33021":7,"33022":7,"33023":7,"33024":7,"33025":7,"33026":7,"33027":7,"33028":7,"33029":7,"33030":7,"33031":7,"33032":7,"33033":7,"33034":7,"33035":7,"33036":7.5,"33037":7.5,"33039":7,"33040":7.5,"33042":7.5,"33043":7.5,"33050":7.5,"33051":7.5,"33054":7,"33055":7,"33056":7,"33060":7,"33062":7,"33063":7,"33064":7,"33065":7,"33066":7,"33067":7,"33068":7,"33069":7,"33070":7.5,"33071":7,"33073":7,"33076":7,"33101":7,"33109":7,"33122":7,"33125":7,"33126":7,"33127":7,"33128":7,"33129":7,"33130":7,"33131":7,"33132":7,"33133":7,"33134":7,"33135":7,"33136":7,"33137":7,"33138":7,"33139":7,"33140":7,"33141":7,"33142":7,"33143":7,"33144":7,"33145":7,"33146":7,"33147":7,"33149":7,"33150":7,"33154":7,"33155":7,"33156":7,"33157":7,"33158":7,"33160":7,"33161":7,"33162":7,"33165":7,"33166":7,"33167":7,"33168":7,"33169":7,"33170":7,"33172":7,"33173":7,"33174":7,"33175":7,"33176":7,"33177":7,"33178":7,"33179":7,"33180":7,"33181":7,"33182":7,"33183":7,"33184":7,"33185":7,"33186":7,"33187":7,"33189":7,"33190":7,"33193":7,"33194":7,"33196":7,"33301":7,"33304":7,"33305":7,"33306":7,"33308":7,"33309":7,"33311":7,"33312":7,"33313":7,"33314":7,"33315":7,"33316":7,"33317":7,"33319":7,"33321":7,"33322":7,"33323":7,"33324":7,"33325":7,"33326":7,"33327":7,"33328":7,"33330":7,"33331":7,"33332":7,"33334":7,"33351":7,"33388":7,"33401":7,"33403":7,"33404":7,"33405":7,"33406":7,"33407":7,"33408":7,"33409":7,"33410":7,"33411":7,"33412":7,"33413":7,"33414":7,"33415":7,"33417":7,"33418":7,"33426":7,"33428":7,"33430":7,"33431":7,"33432":7,"33433":7,"33434":7,"33435":7,"33436":7,"33437":7,"33438":7,"33440":7.5,"33441":7,"33442":7,"33444":7,"33445":7,"33446":7,"33449":7,"33455":7,"33458":7,"33460":7,"33461":7,"33462":7,"33463":7,"33467":7,"33469":7,"33470":7,"33471":7,"33472":7,"33473":7,"33476":7,"33477":7,"33478":7,"33480":7,"33483":7,"33484":7,"33486":7,"33487":7,"33493":7,"33496":7,"33498":7,"33503":7.5,"33510":7.5,"33511":7.5,"33513":7,"33514":7,"33521":7,"33523":7,"33525":7,"33527":7.5,"33530":7.5,"33534":7.5,"33538":7,"33540":7,"33541":7,"33542":7,"33543":7,"33544":7,"33545":7,"33547":7.5,"33548":7.5,"33549":7.5,"33550":7.5,"33556":7.5,"33558":7.5,"33559":7.5,"33563":7.5,"33565":7.5,"33566":7.5,"33567":7.5,"33569":7.5,"33570":7.5,"33572":7.5,"33573":7.5,"33574":7,"33576":7,"33578":7.5,"33579":7.5,"33584":7.5,"33585":7,"33592":7.5,"33594":7.5,"33596":7.5,"33597":7,"33598":7.5,"33602":7.5,"33603":7.5,"33604":7.5,"33605":7.5,"33606":7.5,"33607":7.5,"33609":7.5,"33610":7.5,"33611":7.5,"33612":7.5,"33613":7.5,"33614":7.5,"33615":7.5,"33616":7.5,"33617":7.5,"33618":7.5,"33619":7.5,"33620":7.5,"33621":7.5,"33624":7.5,"33625":7.5,"33626":7.5,"33629":7.5,"33634":7.5,"33635":7.5,"33637":7.5,"33647":7.5,"33701":7,"33702":7,"33703":7,"33704":7,"33705":7,"33706":7,"33707":7,"33708":7,"33709":7,"33710":7,"33711":7,"33712":7,"33713":7,"33714":7,"33715":7,"33716":7,"33744":7,"33755":7,"33756":7,"33759":7,"33760":7,"33761":7,"33762":7,"33763":7,"33764":7,"33765":7,"33767":7,"33770":7,"33771":7,"33772":7,"33773":7,"33774":7,"33776":7,"33777":7,"33778":7,"33781":7,"33782":7,"33785":7,"33786":7,"33801":7,"33803":7,"33805":7,"33809":7,"33810":7,"33811":7,"33812":7,"33813":7,"33815":7,"33823":7,"33825":7.5,"33827":7,"33830":7,"33834":7,"33835":7,"33837":7,"33838":7,"33839":7,"33840":7,"33841":7,"33843":7,"33844":7,"33847":7,"33848":7.5,"33849":7,"33850":7,"33851":7,"33852":7.5,"33853":7,"33854":7,"33855":7,"33856":7,"33857":7.5,"33858":7,"33859":7,"33860":7,"33865":7,"33867":7,"33868":7,"33870":7.5,"33872":7.5,"33873":7,"33875":7.5,"33876":7.5,"33877":7,"33880":7,"33881":7,"33884":7,"33890":7,"33896":7.5,"33897":7,"33898":7,"33901":6.5,"33903":6.5,"33904":6.5,"33905":6.5,"33907":6.5,"33908":6.5,"33909":6.5,"33912":6.5,"33913":6.5,"33914":6.5,"33916":6.5,"33917":6.5,"33919":6.5,"33920":6.5,"33921":6.5,"33922":6.5,"33924":6.5,"33928":6.5,"33930":7.5,"33931":6.5,"33935":7.5,"33936":7.5,"33944":7,"33946":7,"33947":7,"33948":7,"33950":7,"33952":7,"33953":7,"33954":7,"33955":7,"33956":6.5,"33957":6.5,"33960":7.5,"33965":6.5,"33966":6.5,"33967":6.5,"33971":6.5,"33972":6.5,"33973":6.5,"33974":6.5,"33976":6.5,"33980":7,"33981":7,"33982":7,"33983":7,"33990":6.5,"33991":6.5,"33993":6.5,"34101":6,"34102":6,"34103":6,"34104":6,"34105":6,"34108":6,"34109":6,"34110":6,"34112":6,"34113":6,"34114":6,"34116":6,"34117":6,"34119":6,"34120":6,"34134":6.5,"34135":6.5,"34137":6,"34138":6,"34139":6,"34140":6,"34141":6,"34142":6,"34145":6,"34201":7,"34202":7,"34203":7,"34205":7,"34207":7,"34208":7,"34209":7,"34210":7,"34211":7,"34212":7,"34215":7,"34216":7,"34217":7,"34219":7,"34221":7,"34222":7,"34223":7,"34224":7,"34228":7,"34229":7,"34231":7,"34232":7,"34233":7,"34234":7,"34235":7,"34236":7,"34237":7,"34238":7,"34239":7,"34240":7,"34241":7,"34242":7,"34243":7,"34250":7,"34251":7,"34266":7.5,"34267":7.5,"34268":7.5,"34269":7.5,"34275":7,"34285":7,"34286":7,"34287":7,"34288":7,"34289":7,"34291":7,"34292":7,"34293":7,"34420":7.5,"34428":6,"34429":6,"34431":7.5,"34432":7.5,"34433":6,"34434":6,"34436":6,"34442":6,"34445":6,"34446":6,"34448":6,"34449":7,"34450":6,"34452":6,"34453":6,"34461":6,"34465":6,"34470":7.5,"34471":7.5,"34472":7.5,"34473":7.5,"34474":7.5,"34475":7.5,"34476":7.5,"34479":7.5,"34480":7.5,"34481":7.5,"34482":7.5,"34484":7,"34487":6,"34488":7.5,"34491":7.5,"34498":7,"34601":6.5,"34602":6.5,"34604":6.5,"34606":6.5,"34607":6.5,"34608":6.5,"34609":6.5,"34610":7,"34613":6.5,"34614":6.5,"34637":7,"34638":7,"34639":7,"34652":7,"34653":7,"34654":7,"34655":7,"34661":6.5,"34667":7,"34668":7,"34669":7,"34677":7,"34679":7,"34681":7,"34683":7,"34684":7,"34685":7,"34688":7,"34689":7,"34690":7,"34691":7,"34695":7,"34698":7,"34705":7,"34711":7,"34714":7,"34715":7,"34729":7,"34731":7,"34734":6.5,"34736":7,"34737":7,"34739":7.5,"34741":7.5,"34743":7.5,"34744":7.5,"34746":7.5,"34747":7.5,"34748":7,"34753":7,"34756":7,"34758":7.5,"34759":7,"34760":6.5,"34761":6.5,"34762":7,"34769":7.5,"34771":7.5,"34772":7.5,"34773":7.5,"34785":7,"34786":6.5,"34787":6.5,"34788":7,"34797":7,"34945":7,"34946":7,"34947":7,"34949":7,"34950":7,"34951":7,"34952":7,"34953":7,"34956":7,"34957":7,"34972":7,"34974":7,"34981":7,"34982":7,"34983":7,"34984":7,"34986":7,"34987":7,"34990":7,"34994":7,"34996":7,"34997":7}},"cardFee":3};
 const fmt = n => '$' + n.toLocaleString('en-US', {minimumFractionDigits: 2, maximumFractionDigits: 2});
 const r2 = n => Math.round(n * 100) / 100;
 const key = new URLSearchParams(location.search).get('b');
